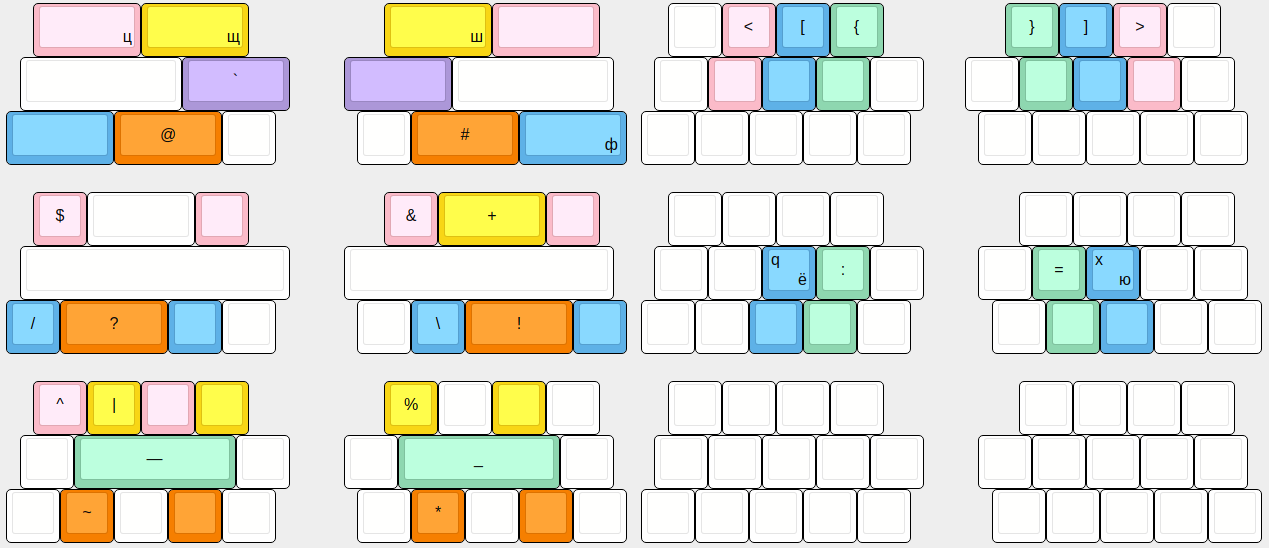
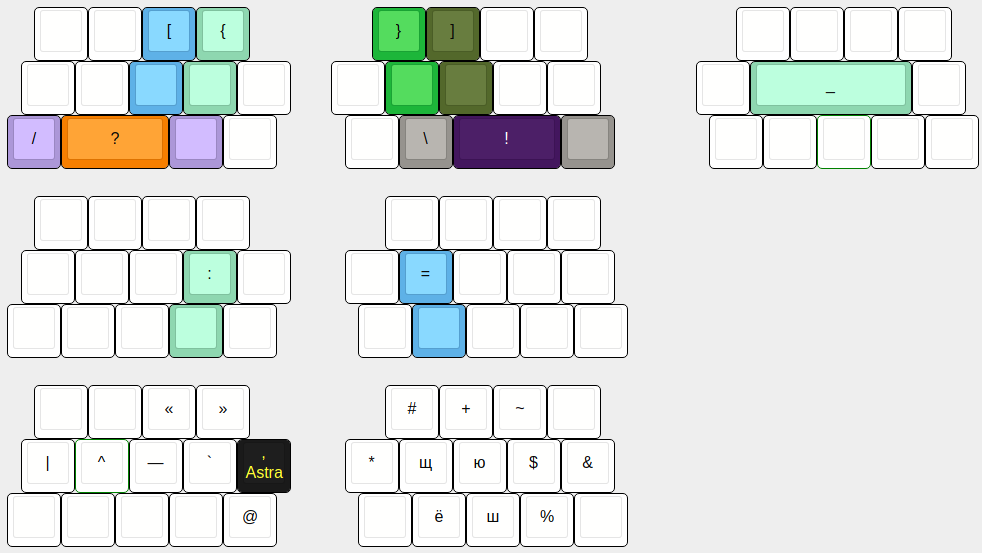
Add Astra layer

diff --git a/keymaps/default/keymap.c b/keymaps/default/keymap.c
@@ -15,7 +15,7 @@ const uint16_t PROGMEM keymaps[][MATRIX_ROWS][MATRIX_COLS] =
    [LATIN] =
    {
     HALFL(KC_DQUO, KC_Z, KC_P, KC_R, KC_D, KC_Q,
-          KC_H,    KC_S, KC_T, KC_N, KC_COMM,
+          KC_H,    KC_S, KC_T, KC_N, LT(ASTRA, KC_COMM),
           KC_Y,    KC_K, KC_M, KC_C, KC_MINS),
     HALFR(KC_X,    KC_F, KC_W, KC_U, KC_J, KC_QUOT,
           KC_E,    KC_O, KC_I, KC_L, KC_DOT,
@@ -24,7 +24,7 @@ const uint16_t PROGMEM keymaps[][MATRIX_ROWS][MATRIX_COLS] =
    [CYRILLIC] =
    {
     HALFL(RU_ZH, RU_CH, RU_P,  RU_R, RU_D, RU_F,
-          RU_V, RU_S,  RU_T, RU_N, RU_COMM,
+          RU_V, RU_S,  RU_T, RU_N, ASTRARUS,
           RU_J, RU_Z, RU_M, RU_K, RU_MINUS),
     HALFR(RU_TS, RU_SOFT, RU_JA, RU_U, RU_H, RU_E,
           RU_JE, RU_O, RU_I, RU_L, RU_DOT,
@@ -48,6 +48,15 @@ const uint16_t PROGMEM keymaps[][MATRIX_ROWS][MATRIX_COLS] =
           KC_MS_L,    KC_MS_D, KC_MS_R, KC_WH_U, LCTL(KC_Z),
           KC_VOLD,    KC_MUTE, KC_VOLU, KC_WH_D, LSFT(KC_Y))
    },
+   [ASTRA] =
+   {
+     HALFL(KC_TRNS, KC_TRNS, KC_TRNS, AGUILL, AEMOT, KC_TRNS,
+	   APIPE, ACIRC, AMDASH, AGRAVE, ASTRA,
+	   KC_TRNS, KC_TRNS,KC_TRNS,KC_TRNS, AATDOG),
+     HALFR(KC_TRNS, AHASH, KC_PLUS, ATILDE, KC_TRNS, KC_TRNS,
+	   ASHCH, AJU, ADOLLAR, AAMP, KC_ASTR,
+	   AJO, ASH, KC_PERC, KC_TRNS, KC_TRNS)
+   }
   };
 // Will be used later. For now, it does barely nothing.
 enum LanguageSwitchType {
@@ -69,6 +78,18 @@ switch (language_switch_type) {
 }
 
 }
+#define ASTRAMATCH(ck, typed_on_qwerty, kc)\
+case ck:\
+  if (record->event.pressed) {\
+    bool should_toggle_back = false;\
+    if (layer_state & _BV(CYRILLIC) && typed_on_qwerty) {\
+      toggle_language();\
+      should_toggle_back = true;\
+    }\
+    tap_code16(kc);\
+    if (should_toggle_back) toggle_language();\
+  }\
+return false;
 bool
 
 process_record_user(uint16_t keycode, keyrecord_t *record){
@@ -80,6 +101,7 @@ KEYTIMER(CTL_SPC);
 KEYTIMER(CMD_DEL);
 KEYTIMER(ROPT);
 KEYTIMER(PHOTO);
+KEYTIMER(ASTRARUS);
 
 switch (keycode) {
   KEYMATCH(PHOTO,   _BV(MOON),     false, MOD_LSFT | MOD_LGUI, KC_NO);
@@ -95,6 +117,46 @@ switch (keycode) {
 case CYR_LAT:
   if (record->event.pressed) toggle_language();
   return false;
+
+  /* ЙЦУКЕН Astra key */
+  KEYMATCH(ASTRARUS, _BV(ASTRA), false, 0, RU_COMM);
+
+  /* Astra keys that depend on installed layouts */
+  ASTRAMATCH(APIPE, true, KC_PIPE);
+  ASTRAMATCH(ACIRC, true, KC_CIRC);
+  ASTRAMATCH(AGRAVE, true, KC_GRAVE);
+  ASTRAMATCH(AATDOG, true, KC_AT);
+  ASTRAMATCH(AHASH, true, KC_HASH);
+  ASTRAMATCH(ATILDE, true, KC_TILDE);
+  ASTRAMATCH(ADOLLAR, true, KC_DOLLAR);
+  ASTRAMATCH(AAMP, true, KC_AMPR);
+  ASTRAMATCH(ASHCH, false, RU_SHCH);
+  ASTRAMATCH(AJU, false, RU_JU);
+  ASTRAMATCH(AJO, false, RU_JO);
+  ASTRAMATCH(ASH, false, RU_SH);
+
+  /* Astra keys that depend on Compose key */
+case AGUILL:
+  if (record->event.pressed) {
+    tap_code16(KC_SLCK);
+    tap_code16(KC_LT);
+    tap_code16(KC_LT);
+  }
+  return false;
+case AEMOT:
+  if (record->event.pressed) {
+    tap_code16(KC_SLCK);
+    tap_code16(KC_GT);
+    tap_code16(KC_GT);
+  }
+  return false;
+case AMDASH:
+  if (record->event.pressed) {
+    tap_code16(KC_SLCK);
+    tap_code16(KC_MINS);
+    tap_code16(KC_MINS);
+    tap_code16(KC_MINS);
+  }
 }
 return true;
 

diff --git a/sequira.h b/sequira.h
@@ -5,6 +5,7 @@
 #define CYRILLIC 1
 #define MOON 2
 #define SUN 3
+#define ASTRA 4
 enum custom_key {
     CYR_LAT = SAFE_RANGE,
     MUN_BRA,
@@ -14,7 +15,23 @@ enum custom_key {
     CTL_SPC,
     CMD_DEL,
     ROPT,
-    PHOTO
+    PHOTO,
+    AGUILL,
+    AEMOT,
+    AMDASH,
+    APIPE,
+    ACIRC,
+    AGRAVE,
+    AATDOG,
+    AHASH,
+    ATILDE,
+    ADOLLAR,
+    AAMP,
+    ASHCH,
+    AJO,
+    AJU,
+    ASH,
+    ASTRARUS,
 } ;
 #include "rusmap.h"
 #define HALF(k10, k11, k12, k13, k14, k15, k20, k21, k22, k23, k24, k25, k30, k31, k32, k33, k34, k35, k40, k41, k42, k43, k44, k45)\

diff --git a/litsrc/keymap.c.md b/litsrc/keymap.c.md
@@ -21,7 +21,7 @@ const uint16_t PROGMEM keymaps[][MATRIX_ROWS][MATRIX_COLS] =
    [LATIN] =
    {
     HALFL(KC_DQUO, KC_Z, KC_P, KC_R, KC_D, KC_Q,
-          KC_H,    KC_S, KC_T, KC_N, KC_COMM,
+          KC_H,    KC_S, KC_T, KC_N, LT(ASTRA, KC_COMM),
           KC_Y,    KC_K, KC_M, KC_C, KC_MINS),
     HALFR(KC_X,    KC_F, KC_W, KC_U, KC_J, KC_QUOT,
           KC_E,    KC_O, KC_I, KC_L, KC_DOT,
@@ -30,7 +30,7 @@ const uint16_t PROGMEM keymaps[][MATRIX_ROWS][MATRIX_COLS] =
    [CYRILLIC] =
    {
     HALFL(RU_ZH, RU_CH, RU_P,  RU_R, RU_D, RU_F,
-          RU_V, RU_S,  RU_T, RU_N, RU_COMM,
+          RU_V, RU_S,  RU_T, RU_N, ASTRARUS,
           RU_J, RU_Z, RU_M, RU_K, RU_MINUS),
     HALFR(RU_TS, RU_SOFT, RU_JA, RU_U, RU_H, RU_E,
           RU_JE, RU_O, RU_I, RU_L, RU_DOT,
@@ -54,6 +54,15 @@ const uint16_t PROGMEM keymaps[][MATRIX_ROWS][MATRIX_COLS] =
           KC_MS_L,    KC_MS_D, KC_MS_R, KC_WH_U, LCTL(KC_Z),
           KC_VOLD,    KC_MUTE, KC_VOLU, KC_WH_D, LSFT(KC_Y))
    },
+   [ASTRA] =
+   {
+     HALFL(KC_TRNS, KC_TRNS, KC_TRNS, AGUILL, AEMOT, KC_TRNS,
+	   APIPE, ACIRC, AMDASH, AGRAVE, ASTRA,
+	   KC_TRNS, KC_TRNS,KC_TRNS,KC_TRNS, AATDOG),
+     HALFR(KC_TRNS, AHASH, KC_PLUS, ATILDE, KC_TRNS, KC_TRNS,
+	   ASHCH, AJU, ADOLLAR, AAMP, KC_ASTR,
+	   AJO, ASH, KC_PERC, KC_TRNS, KC_TRNS)
+   }
   };
 ```
 
@@ -89,6 +98,26 @@ switch (language_switch_type) {
 }
 ```
 
+### defmacro ASTRAMATCH
+
+- `ck`
+- `typed_on_qwerty`
+- `kc`
+
+```c
+case ck:
+  if (record->event.pressed) {
+    bool should_toggle_back = false;
+    if (layer_state & _BV(CYRILLIC) && typed_on_qwerty) {
+      toggle_language();
+      should_toggle_back = true;
+    }
+    tap_code16(kc);
+    if (should_toggle_back) toggle_language();
+  }
+return false;
+```
+
 ## Record processing
 
 ### fn process_record_user
@@ -105,6 +134,7 @@ KEYTIMER(CTL_SPC);
 KEYTIMER(CMD_DEL);
 KEYTIMER(ROPT);
 KEYTIMER(PHOTO);
+KEYTIMER(ASTRARUS);
 
 switch (keycode) {
   KEYMATCH(PHOTO,   _BV(MOON),     false, MOD_LSFT | MOD_LGUI, KC_NO);
@@ -120,6 +150,46 @@ switch (keycode) {
 case CYR_LAT:
   if (record->event.pressed) toggle_language();
   return false;
+
+  /* ЙЦУКЕН Astra key */
+  KEYMATCH(ASTRARUS, _BV(ASTRA), false, 0, RU_COMM);
+
+  /* Astra keys that depend on installed layouts */
+  ASTRAMATCH(APIPE, true, KC_PIPE);
+  ASTRAMATCH(ACIRC, true, KC_CIRC);
+  ASTRAMATCH(AGRAVE, true, KC_GRAVE);
+  ASTRAMATCH(AATDOG, true, KC_AT);
+  ASTRAMATCH(AHASH, true, KC_HASH);
+  ASTRAMATCH(ATILDE, true, KC_TILDE);
+  ASTRAMATCH(ADOLLAR, true, KC_DOLLAR);
+  ASTRAMATCH(AAMP, true, KC_AMPR);
+  ASTRAMATCH(ASHCH, false, RU_SHCH);
+  ASTRAMATCH(AJU, false, RU_JU);
+  ASTRAMATCH(AJO, false, RU_JO);
+  ASTRAMATCH(ASH, false, RU_SH);
+
+  /* Astra keys that depend on Compose key */
+case AGUILL:
+  if (record->event.pressed) {
+    tap_code16(KC_SLCK);
+    tap_code16(KC_LT);
+    tap_code16(KC_LT);
+  }
+  return false;
+case AEMOT:
+  if (record->event.pressed) {
+    tap_code16(KC_SLCK);
+    tap_code16(KC_GT);
+    tap_code16(KC_GT);
+  }
+  return false;
+case AMDASH:
+  if (record->event.pressed) {
+    tap_code16(KC_SLCK);
+    tap_code16(KC_MINS);
+    tap_code16(KC_MINS);
+    tap_code16(KC_MINS);
+  }
 }
 return true;
 ```

diff --git a/litsrc/sequira.h.md b/litsrc/sequira.h.md
@@ -23,8 +23,12 @@ it may change later.
   Navigation and numbers.
 - `SUN 3`
   Mouse and F-keys.
+- `ASTRA 4`
+  Punctuation, etc. Typeable in any of the two languages.
 
 ## enum custom_key
+
+The following are layermode keys.
 
 - `CYR_LAT = SAFE_RANGE`
   Change layout on both keyboard and computer.
@@ -44,6 +48,30 @@ it may change later.
   Just a `Right Alt/Option` key.
 - `PHOTO`
   Momentary toggle `Moon` layer and `Super` along with `Shift`.
+
+The following keys are from `Astra` layer.
+
+- `AGUILL`
+- `AEMOT`
+  These are for writing guill-emots «». They depend on Compose key configured on computer like that: `Compose, <, <` → `«`, `Compose, >, >` → `»`. The Compose key must be mapped to ScrollLock.
+- `AMDASH`
+  Long dash — written with three hyphens.
+- `APIPE`
+- `ACIRC`
+- `AGRAVE`
+- `AATDOG`
+- `AHASH`
+- `ATILDE`
+- `ADOLLAR`
+- `AAMP`
+- `ASHCH`
+- `AJO`
+- `AJU`
+- `ASH`
+
+The following key is used to toggle `ASTRA` layer, because on ЙЦУКЕН comma is typed with shift key pressed.
+
+- `ASTRARUS`
 
 ## QMK Bonus imports
 
